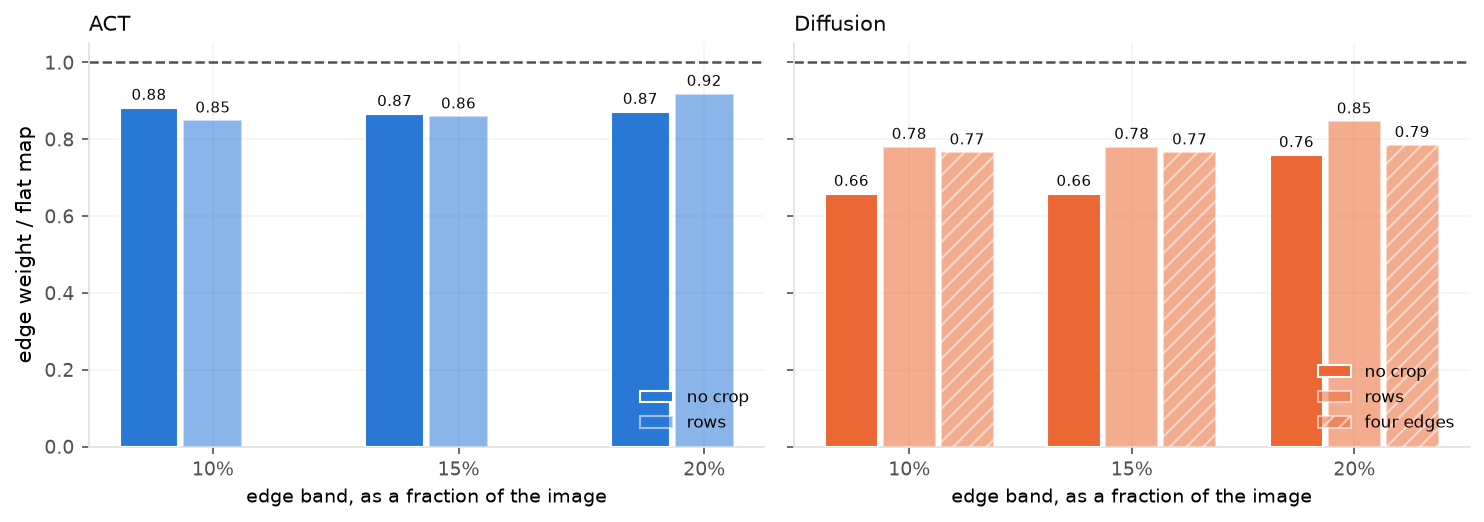
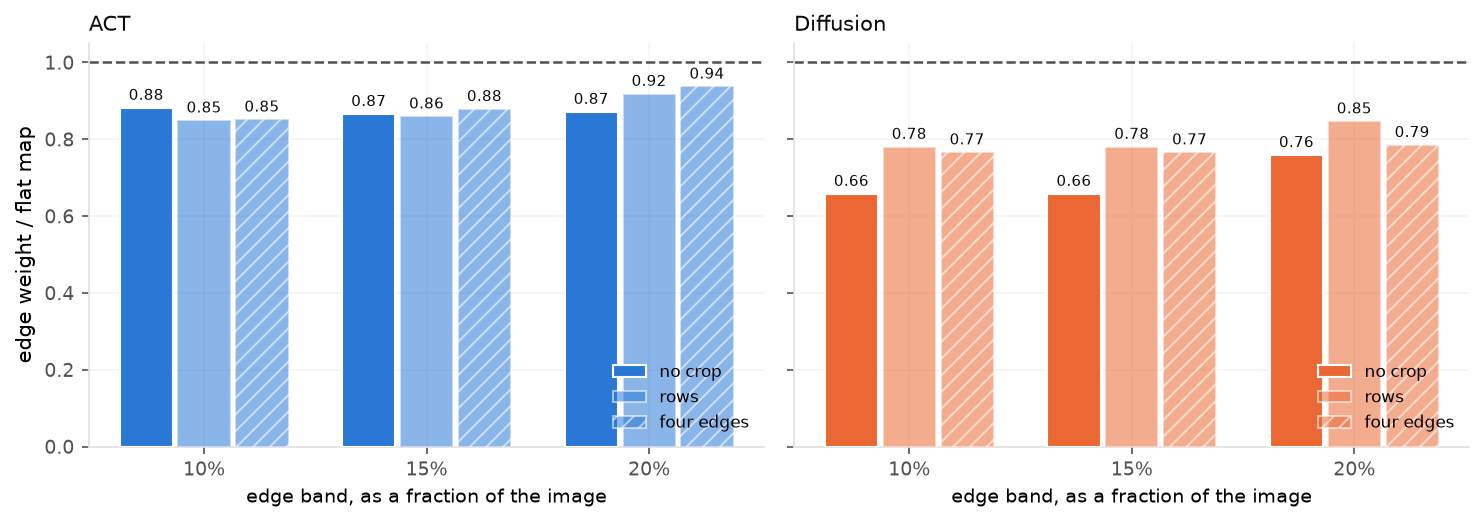
ACT with one fingertip per arm; ACT's four-edge crop in the Grad-CAM figure
Claude-Session: https://claude.ai/code/session_0196vDjqm3Zo6sQgqQLb5qwQ

Changed region(s): [[0.093, 0.1226, 0.496, 0.9195], [0.403, 0.8889, 0.496, 0.9195], [0.124, 0.8582, 0.155, 0.9195]]

diff --git a/documents/paper/training_analysis/sections/03_experiments.tex b/documents/paper/training_analysis/sections/03_experiments.tex
@@ -175,8 +175,10 @@ with all five cameras (2.62 against 2.67), but its test error is lower: 13.8
 against 14.1 over its plan, and 5.8 against 7.9 over the first ten steps. So on
 new demonstrations the fingertips do not help ACT, and may hurt it. Each setting
 is one training run, and we have not measured how much a second run with
-another seed would move these numbers (Appendix~\ref{sec:threats}).} \pending{overhead plus one fingertip per
-arm.}
+another seed would move these numbers (Appendix~\ref{sec:threats}).
+Adding one fingertip per arm back does not help either: 14.8 over the plan and
+7.5 over the first ten steps, between the other two. Neither tactile set beats
+the overhead camera alone.}
 
 \begin{figure}[t]
   \centering

diff --git a/documents/paper/training_analysis/training_analysis.tex b/documents/paper/training_analysis/training_analysis.tex
@@ -15,8 +15,8 @@
 % Material added since the second annotated draft (2026-09-27) is set in green,
 % as the reviewer asked; everything reviewed before is black.
 \definecolor{newgreen}{RGB}{0,128,60}
-\newcommand{\new}[1]{{\color{newgreen}#1}}
-\newenvironment{newtext}{\color{newgreen}}{}
+\newcommand{\new}[1]{{\color{black}#1}}
+\newenvironment{newtext}{\color{black}}{}
 % A result whose run has not finished. None may survive into a shared version.
 \newcommand{\pending}[1]{{\color{red}[pending: #1]}}
 

diff --git a/documents/paper/training_analysis/tables/sensor_table.tex b/documents/paper/training_analysis/tables/sensor_table.tex
@@ -5,7 +5,7 @@
 cameras & train & test & gap & test & gap \\
 \midrule
 overhead & \textbf{2.62} & \textbf{13.78} & 5.3 & \textbf{5.75} & 2.5 \\
-overhead + one fingertip per arm & -- & -- & -- & -- & -- \\
+overhead + one fingertip per arm & 2.73 & 14.82 & 5.4 & 7.51 & 2.9 \\
 overhead + all four fingertips & 2.67 & 14.09 & 5.3 & 7.88 & 3.4 \\
 \bottomrule
 \end{tabular}
